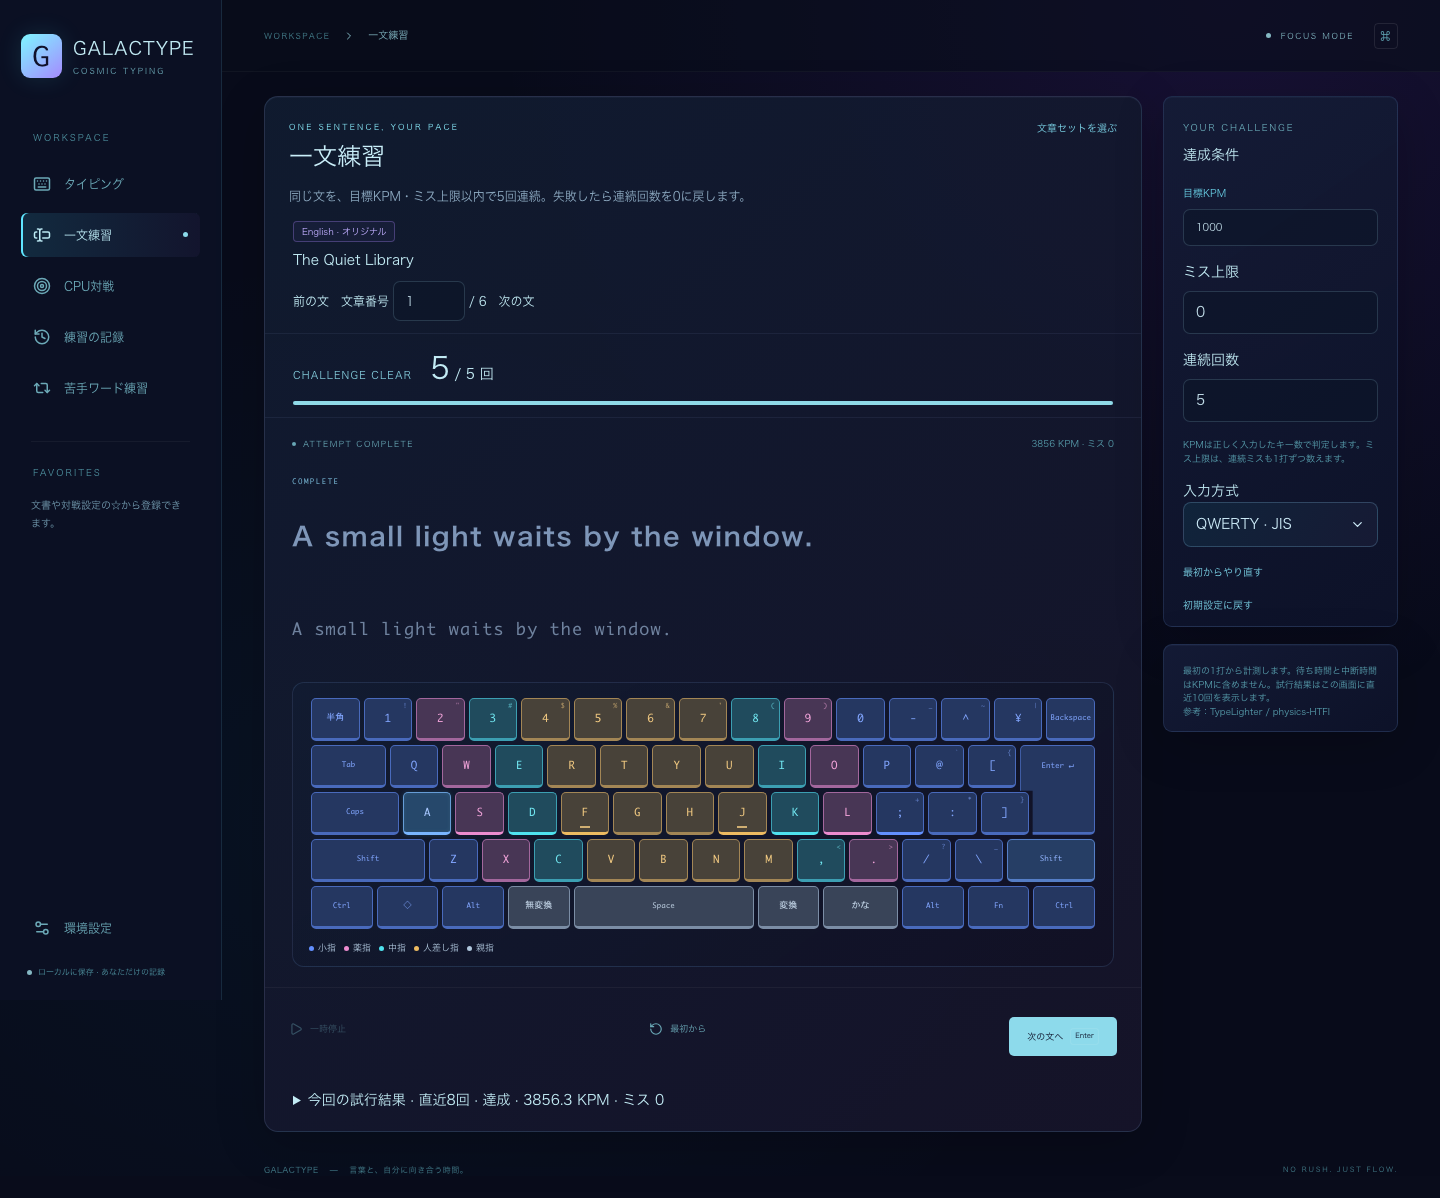
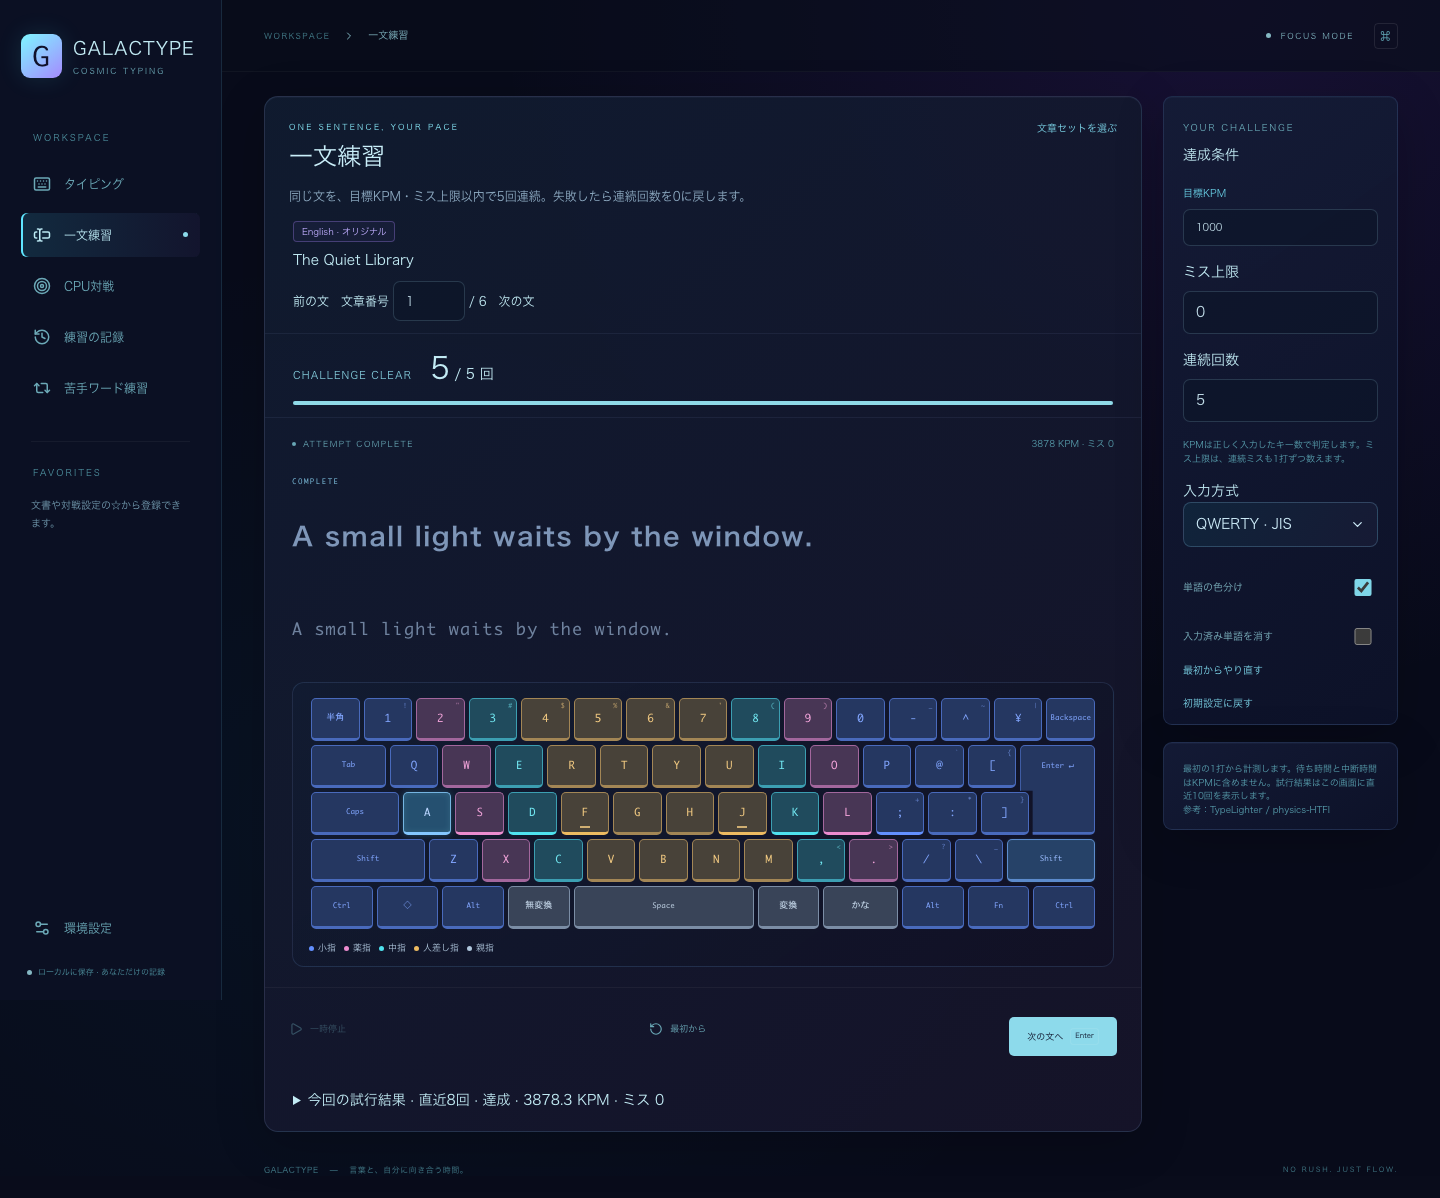
feat: expose word color and consume options in sentence practice

Changed region(s): [[0.7812, 0.4633, 0.9688, 0.6795], [0.9375, 0.4633, 0.9688, 0.4942]]

diff --git a/e2e/english-sentence.spec.ts b/e2e/english-sentence.spec.ts
@@ -9,14 +9,15 @@ import { choose } from './select'
 async function setup(page: Page, sentence = false) {
   await page.clock.install()
   await page.addInitScript((sentenceMode) => {
-    localStorage.setItem(
-      'yohaku.settings.v1',
-      JSON.stringify({
-        background: false,
-        navigationMotion: 'off',
-        layout: 'jis',
-      }),
-    )
+    if (!localStorage.getItem('yohaku.settings.v1'))
+      localStorage.setItem(
+        'yohaku.settings.v1',
+        JSON.stringify({
+          background: false,
+          navigationMotion: 'off',
+          layout: 'jis',
+        }),
+      )
     if (sentenceMode && !localStorage.getItem('galactype.sentence-practice.v1'))
       localStorage.setItem(
         'galactype.sentence-practice.v1',
@@ -31,6 +32,88 @@ async function setup(page: Page, sentence = false) {
 }
 
 for (const width of [1440, 390]) {
+  test(`English word colors and consumed words toggle independently, preserve progress and persist across modes at ${width}px`, async ({
+    page,
+  }) => {
+    await page.setViewportSize({ width, height: 1000 })
+    await setup(page, true)
+    await page
+      .getByRole('group', { name: '文章の言語' })
+      .getByRole('button', { name: 'English', exact: true })
+      .click()
+    await page.getByRole('button', { name: '入力へ進む', exact: true }).click()
+    const wordColors = page.getByRole('checkbox', {
+      name: '単語の色分け',
+      exact: true,
+    })
+    const colors = () =>
+      page
+        .locator('.typing-area .current-paragraph .pending-token .token-text')
+        .evaluateAll((elements) => [
+          ...new Set(
+            elements
+              .filter((el) => el.textContent?.trim())
+              .map((el) => getComputedStyle(el).color),
+          ),
+        ])
+    const text = sentencePracticePool('en-library', 'jis')[0].text
+    await expect(wordColors).toBeChecked()
+    expect((await colors()).length).toBeGreaterThan(1)
+    await wordColors.uncheck()
+    expect(await colors()).toHaveLength(1)
+    await expect(
+      page.locator('.typing-area .current-paragraph'),
+    ).toHaveAttribute('data-text', text)
+    expect(await page.locator('.typing-area .roman-line').innerText()).toBe(
+      text,
+    )
+    const consume = page.getByRole('checkbox', {
+      name: '入力済み単語を消す',
+      exact: true,
+    })
+    await consume.check()
+    await startPractice(page, true)
+    await page.keyboard.type('A ')
+    const typed = page.locator('.typing-area .typed-roman')
+    await expect(typed.locator('[data-consumed=true]')).toHaveText('A ')
+    await expect(typed.locator('[data-consumed=true]')).toHaveCSS(
+      'visibility',
+      'hidden',
+    )
+    await consume.uncheck()
+    await expect(typed.locator('[data-consumed=true]')).toHaveCount(0)
+    await expect(typed).toHaveText('A ')
+    await consume.check()
+    await page.getByRole('button', { name: '一文練習', exact: true }).click()
+    await expect(consume).toBeChecked()
+    await expect(wordColors).not.toBeChecked()
+    expect(await colors()).toHaveLength(1)
+    await wordColors.check()
+    expect((await colors()).length).toBeGreaterThan(1)
+    const area = page.getByRole('region', {
+      name: '一文練習の入力領域',
+      exact: true,
+    })
+    await area.focus()
+    await page.keyboard.type('A ')
+    await expect(typed.locator('[data-consumed=true]')).toHaveText('A ')
+    await wordColors.uncheck()
+    await expect(area.getByText('IN THE FLOW', { exact: true })).toBeVisible()
+    await expect(area.locator('.typed-roman')).toHaveText('A ')
+    await consume.uncheck()
+    await expect(typed.locator('[data-consumed=true]')).toHaveCount(0)
+    await expect(typed).toHaveText('A ')
+    await expect(wordColors).not.toBeChecked()
+    await consume.check()
+    await page.reload()
+    await page.getByRole('button', { name: '一文練習', exact: true }).click()
+    await expect(wordColors).not.toBeChecked()
+    await expect(consume).toBeChecked()
+    expect(await colors()).toHaveLength(1)
+    await wordColors.check()
+    expect((await colors()).length).toBeGreaterThan(1)
+  })
+
   test(`English library, literal input, blank kana spacing, pause, favorites and saved replay at ${width}px`, async ({
     page,
   }) => {
@@ -322,13 +405,28 @@ test('Japanese one-sentence input, source selection, persisted goals, reset and 
     exact: true,
   })
   const sentence = sentencePracticePool('night-library', 'jis')[0]
+  const consume = page.getByRole('checkbox', {
+    name: '入力済み単語を消す',
+    exact: true,
+  })
+  await consume.check()
   await area.focus()
   await page.keyboard.type(new RomanEngine(sentence.reading).hint.slice(0, 1))
   await page.clock.runFor(500)
-  await page.keyboard.type(new RomanEngine(sentence.reading).hint.slice(1))
+  await page.keyboard.type(new RomanEngine(sentence.reading).hint.slice(1, 20))
+  expect(
+    await area.locator('.current-paragraph [data-consumed=true]').count(),
+  ).toBeGreaterThan(0)
+  await page.keyboard.type(new RomanEngine(sentence.reading).hint.slice(20))
   await expect(page.getByRole('status', { name: '連続達成数' })).toContainText(
     'CHALLENGE CLEAR',
   )
+  await consume.uncheck()
+  await expect(page.getByRole('status', { name: '連続達成数' })).toContainText(
+    '1 / 1 回',
+  )
+  await expect(area.locator('[data-consumed=true]')).toHaveCount(0)
+  await consume.check()
   await page
     .getByRole('button', { name: '文章セットを選ぶ', exact: true })
     .click()

diff --git a/src/features/practice/SentencePractice.tsx b/src/features/practice/SentencePractice.tsx
@@ -300,6 +300,38 @@ export default function SentencePractice({
               }}
             />
           </label>
+          <label
+            className="toggle-row"
+            onMouseDown={(event) => event.preventDefault()}
+          >
+            <span>単語の色分け</span>
+            <input
+              type="checkbox"
+              checked={settings.wordColors}
+              onChange={(event) =>
+                setSettings((value) => ({
+                  ...value,
+                  wordColors: event.target.checked,
+                }))
+              }
+            />
+          </label>
+          <label
+            className="toggle-row"
+            onMouseDown={(event) => event.preventDefault()}
+          >
+            <span>入力済み単語を消す</span>
+            <input
+              type="checkbox"
+              checked={settings.consumeTyped}
+              onChange={(event) =>
+                setSettings((value) => ({
+                  ...value,
+                  consumeTyped: event.target.checked,
+                }))
+              }
+            />
+          </label>
           <button className="text-button" onClick={() => resetProgress(true)}>
             最初からやり直す
           </button>

diff --git a/src/app/App.css b/src/app/App.css
@@ -4585,6 +4585,10 @@ rt {
   display: block;
   margin-block: 16px;
 }
+.sentence-options .config-card > .toggle-row {
+  display: flex;
+  align-items: center;
+}
 .sentence-options .config-card > button {
   display: block;
   margin-top: 18px;

diff --git a/README.md b/README.md
@@ -116,7 +116,7 @@ python3 -m unittest discover -s scripts -p 'test_*.py'
 
 e-typingとTypeWellの出典は [physics-HTFI / TypeLighter](https://github.com/physics-HTFI/TypeLighter) の付属ワードです。指定ZIPの英語e-typingは**2012年の第1〜38回**で、直近2025〜2026年の一年分ではありません。確認のうえ、このZIP内の最新データを採用し、同タイトルは最新回を優先して19タイトル・1,540文に整理しました。TypeWell英単語はTWEW215の基本・拡張A–F/G–P/Q–Zの4辞書・6,000語です。各セット内でも同じ入力文字列の重複を除き、大文字や句読点・スペースは保持します。[原本と変換の詳細](data/sources/english/README.md)に出典、取得コミット、SHA-256、ライセンス原文と再生成手順をまとめています。
 
-e-typingは重複なしで15問を選び、TypeWellはスペース込み400打の単語列を作ります。同じシードで同じ出題を再現できます。入力・一時停止・結果・お気に入り・記録・リプレイは通常のタイピングと共通です。CPU対戦の文章一覧は従来どおりです。
+e-typingは重複なしで15問を選び、TypeWellはスペース込み400打の単語列を作ります。同じシードで同じ出題を再現できます。**「単語の色分け」**で英語も単語ごとに色を変えられ、**「入力済み単語を消す」**では完了した単語を消して次の単語へ読み位置を寄せます。英語タイピング・日本語と英語の一文練習で、どちらも個別にオン／オフでき、設定は共通で保存します。表示を切り替えても入力位置や連続達成数は変えず、色分けによる余分なスペースは加えません。入力・一時停止・結果・お気に入り・記録・リプレイは通常のタイピングと共通です。CPU対戦の文章一覧は従来どおりです。
 
 [英語入力（PC）](docs/english-input-1440.png) · [モバイル](docs/english-input-390.png)
 
